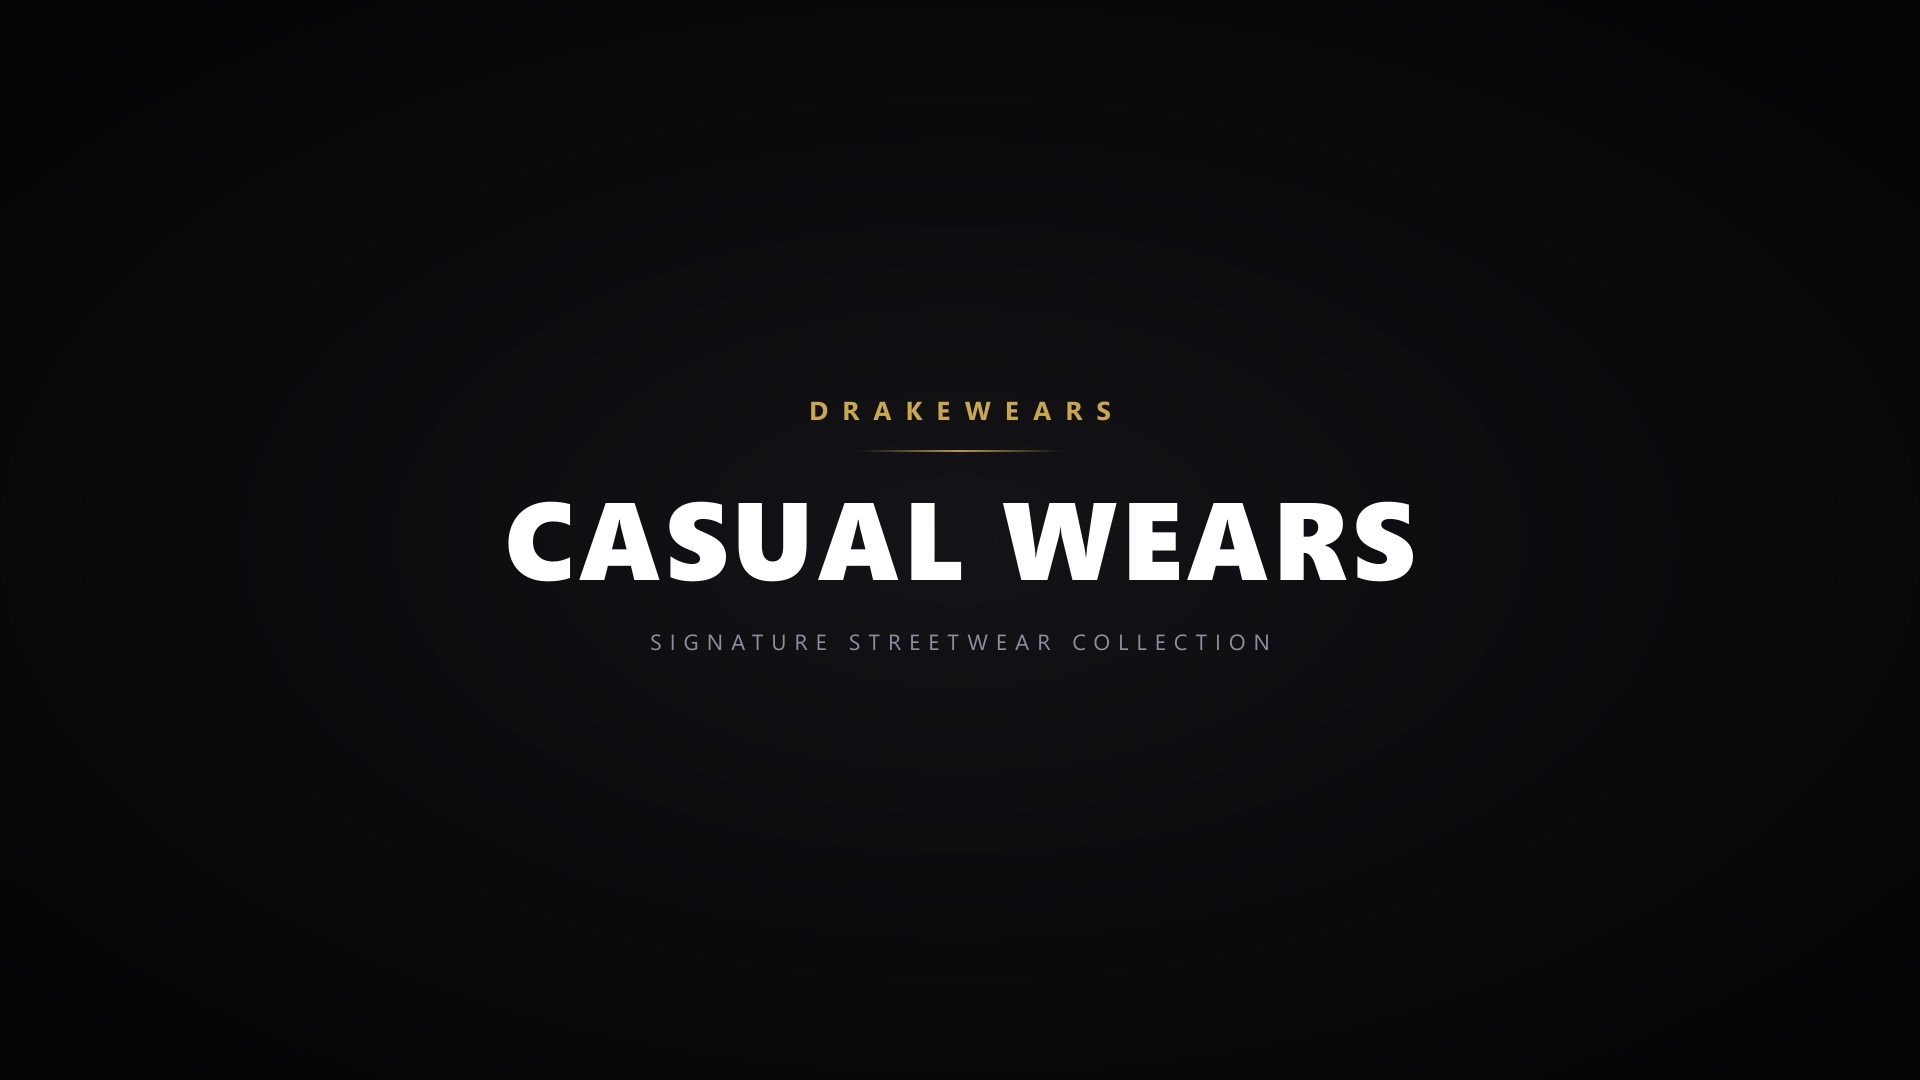
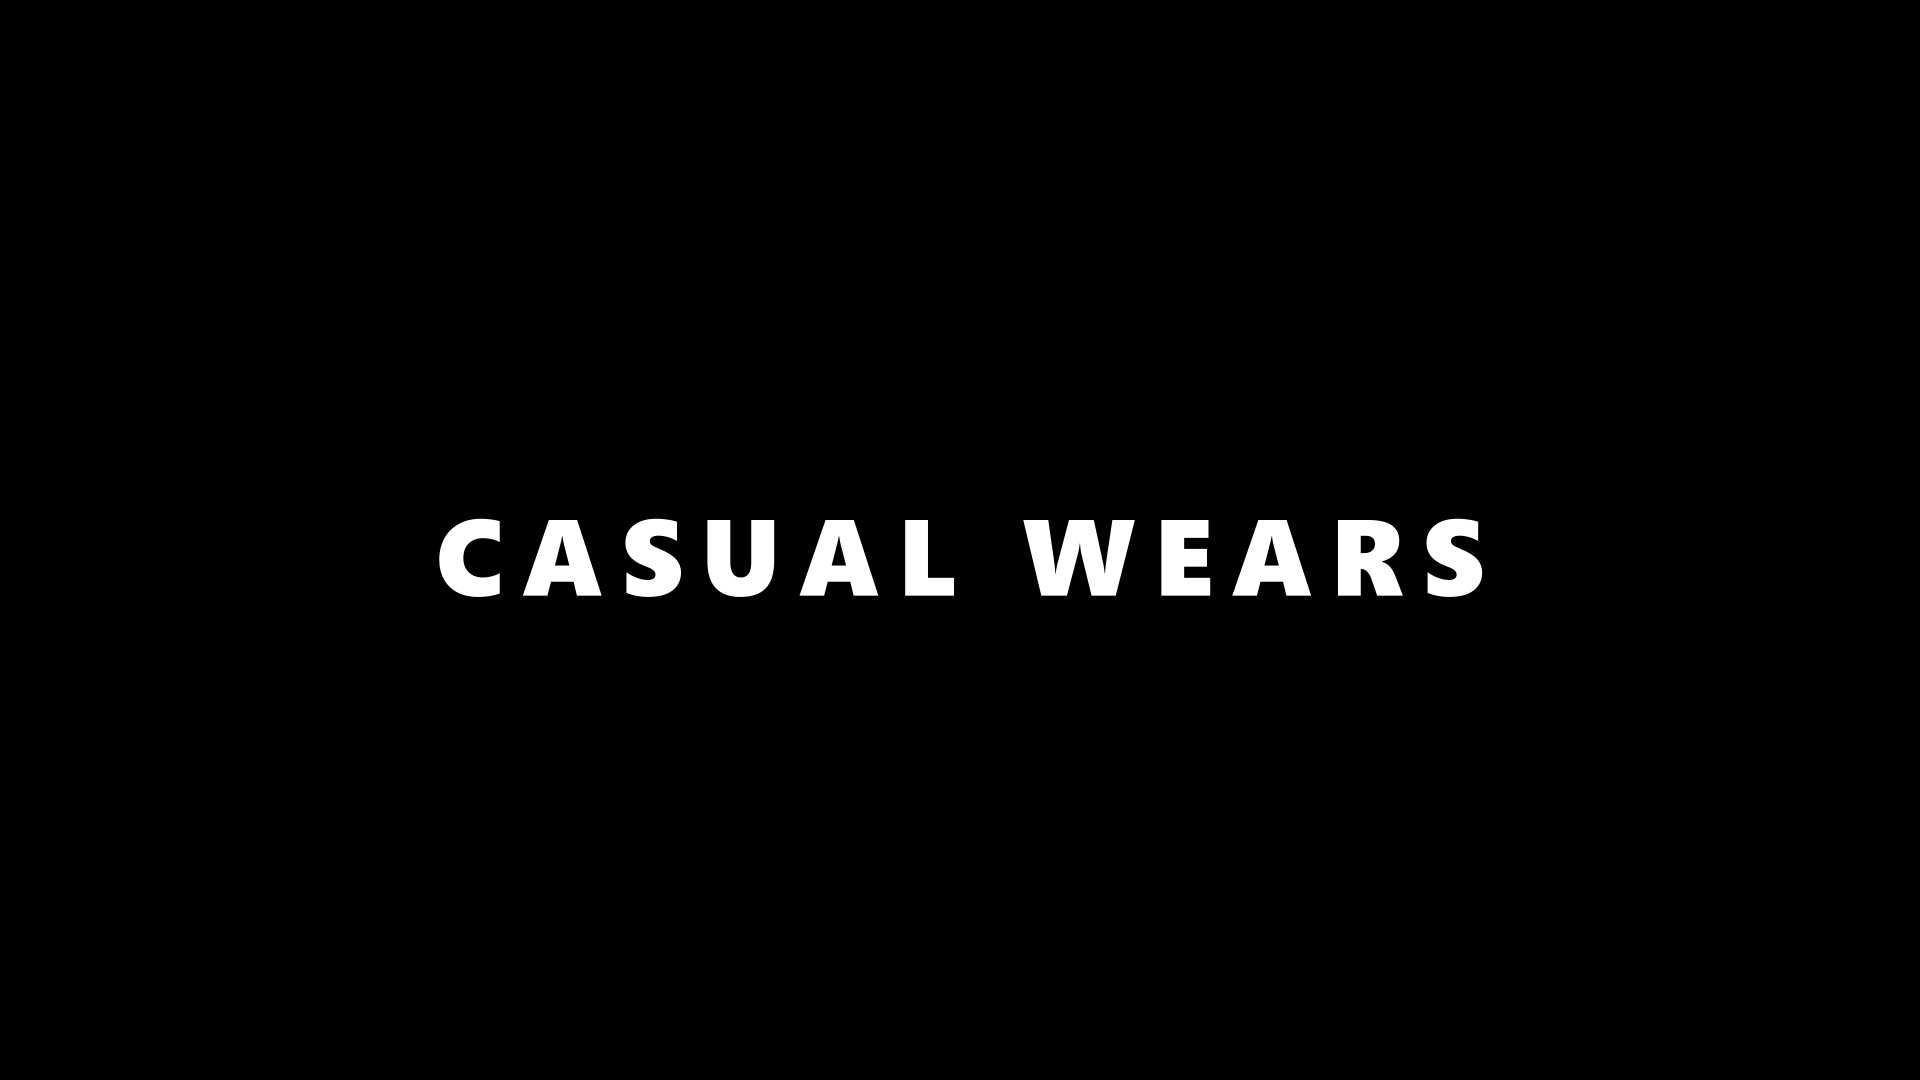
feat: pure jet black carousel slides with only main white text; fix admin routes & redirect /admin to /drakewearsofficial

Changed region(s): [[0.2188, 0.4583, 0.7812, 0.55], [0.3438, 0.5806, 0.6562, 0.6111], [0.4062, 0.3667, 0.5938, 0.3972]]

diff --git a/client/src/components/Navbar.jsx b/client/src/components/Navbar.jsx
@@ -168,7 +168,7 @@ const Navbar = () => {
                         <Link to="/orders">My Orders</Link>
                         <Link to="/wishlist">Saved Wishlist {wishlistCount > 0 && `(${wishlistCount})`}</Link>
                         {user.role === 'admin' && (
-                          <Link to="/admin" style={{ color: '#2563eb', fontWeight: '700' }}>Admin Dashboard</Link>
+                          <Link to="/drakewearsofficial" style={{ color: '#2563eb', fontWeight: '700' }}>Admin Dashboard</Link>
                         )}
                         <button onClick={logout} className="logout-btn">Logout</button>
                       </div>
@@ -244,7 +244,7 @@ const Navbar = () => {
               <>
                 <Link to="/profile" onClick={() => setMobileMenuOpen(false)}>MY ACCOUNT ({user.name})</Link>
                 {user.role === 'admin' && (
-                  <Link to="/admin" onClick={() => setMobileMenuOpen(false)} style={{ color: '#3b82f6', fontWeight: 700 }}>
+                  <Link to="/drakewearsofficial" onClick={() => setMobileMenuOpen(false)} style={{ color: '#3b82f6', fontWeight: 700 }}>
                     ADMIN PANEL →
                   </Link>
                 )}

diff --git a/client/src/pages/Home.css b/client/src/pages/Home.css
@@ -21,7 +21,7 @@
   height: min(100vh, 900px);
   min-height: 560px;
   max-height: 960px;
-  background: #0d0d10;
+  background: #000000;
   overflow: hidden;
   user-select: none;
   touch-action: pan-y; /* Allows smooth vertical scrolling while handling horizontal touch swipes */
@@ -32,6 +32,7 @@
   position: relative;
   width: 100%;
   height: 100%;
+  background: #000000;
 }
 
 .otr-slide {
@@ -42,6 +43,7 @@
   visibility: hidden;
   transition: opacity 0.7s cubic-bezier(0.25, 0.46, 0.45, 0.94), visibility 0.7s;
   text-decoration: none;
+  background: #000000;
 }
 
 .otr-slide.active {
@@ -54,7 +56,7 @@
   width: 100%;
   height: 100%;
   object-fit: cover;
-  object-position: center 30%;
+  object-position: center center;
   display: block;
   pointer-events: none; /* Prevents image dragging ghost on touch/desktop */
 }

diff --git a/client/src/App.jsx b/client/src/App.jsx
@@ -240,9 +240,10 @@ function App() {
             <Route path="coupons" element={<CouponManager />} />
           </Route>
 
-          {/* Decoy for old /admin route -> 404 Not Found */}
-          <Route path="/admin/*" element={<NotFound />} />
-          <Route path="/admin" element={<NotFound />} />
+          {/* Admin Redirection: Support both /admin and /drakewearsofficial */}
+          <Route path="/admin/login" element={<Navigate to="/drakewearsofficial/login" replace />} />
+          <Route path="/admin/*" element={<Navigate to="/drakewearsofficial" replace />} />
+          <Route path="/admin" element={<Navigate to="/drakewearsofficial" replace />} />
 
           
           {/* Auth Pages */}

diff --git a/client/src/pages/admin/AdminLogin.jsx b/client/src/pages/admin/AdminLogin.jsx
@@ -21,7 +21,7 @@ export default function AdminLogin() {
       const userData = await login(cleanEmail, cleanPassword);
       if (userData.role === 'admin') {
         toast.success('Admin access granted.');
-        navigate('/drakewearsofficial');
+        window.location.href = '/drakewearsofficial';
       } else {
         toast.error('Unauthorized access. Admin privileges required.');
       }
